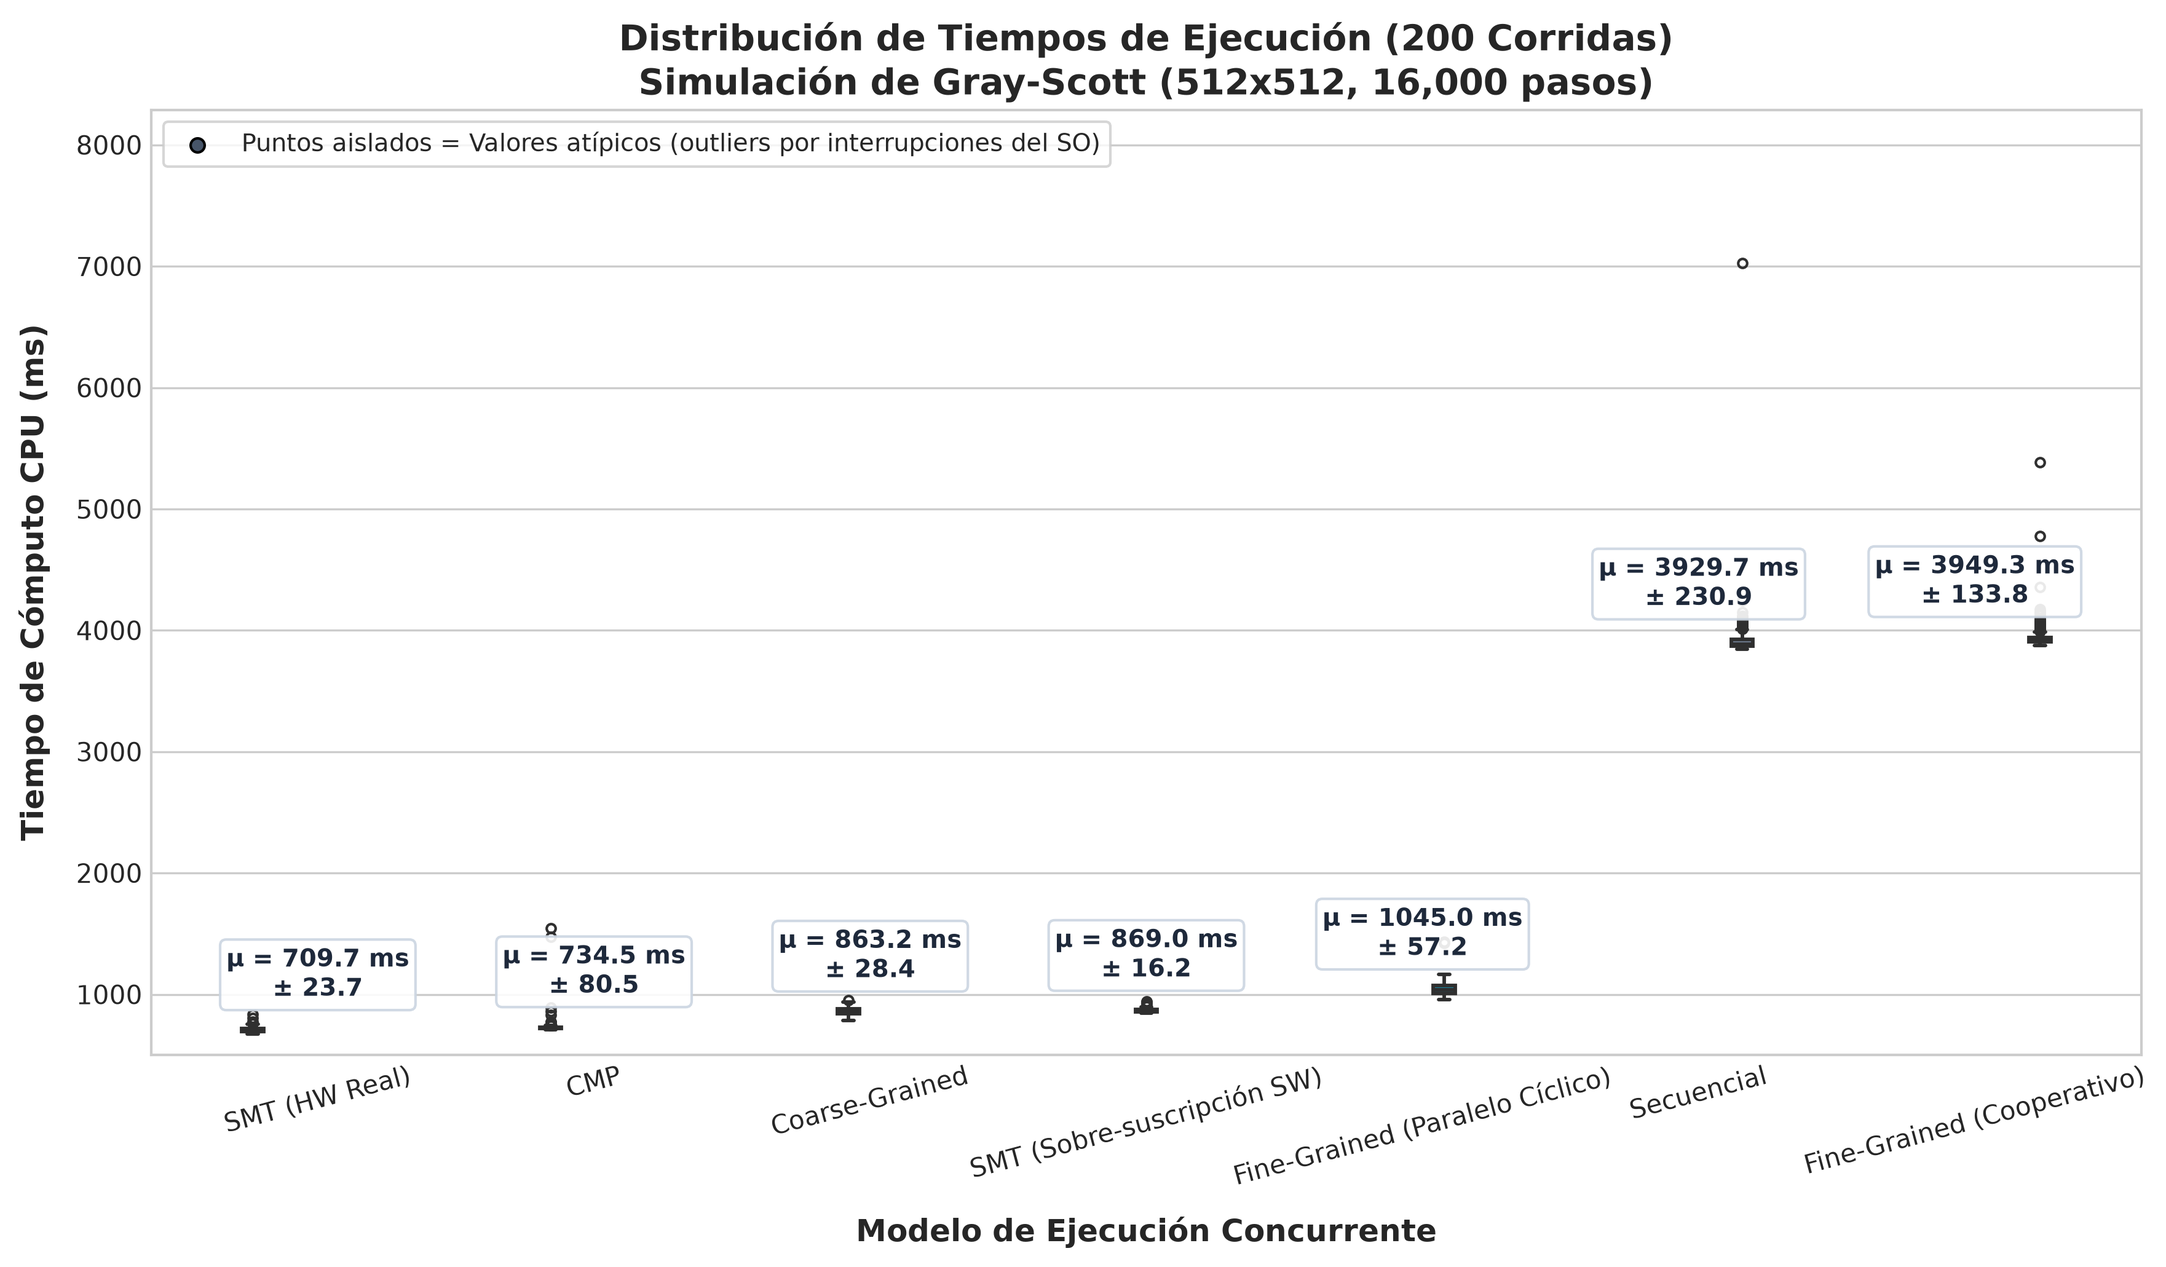
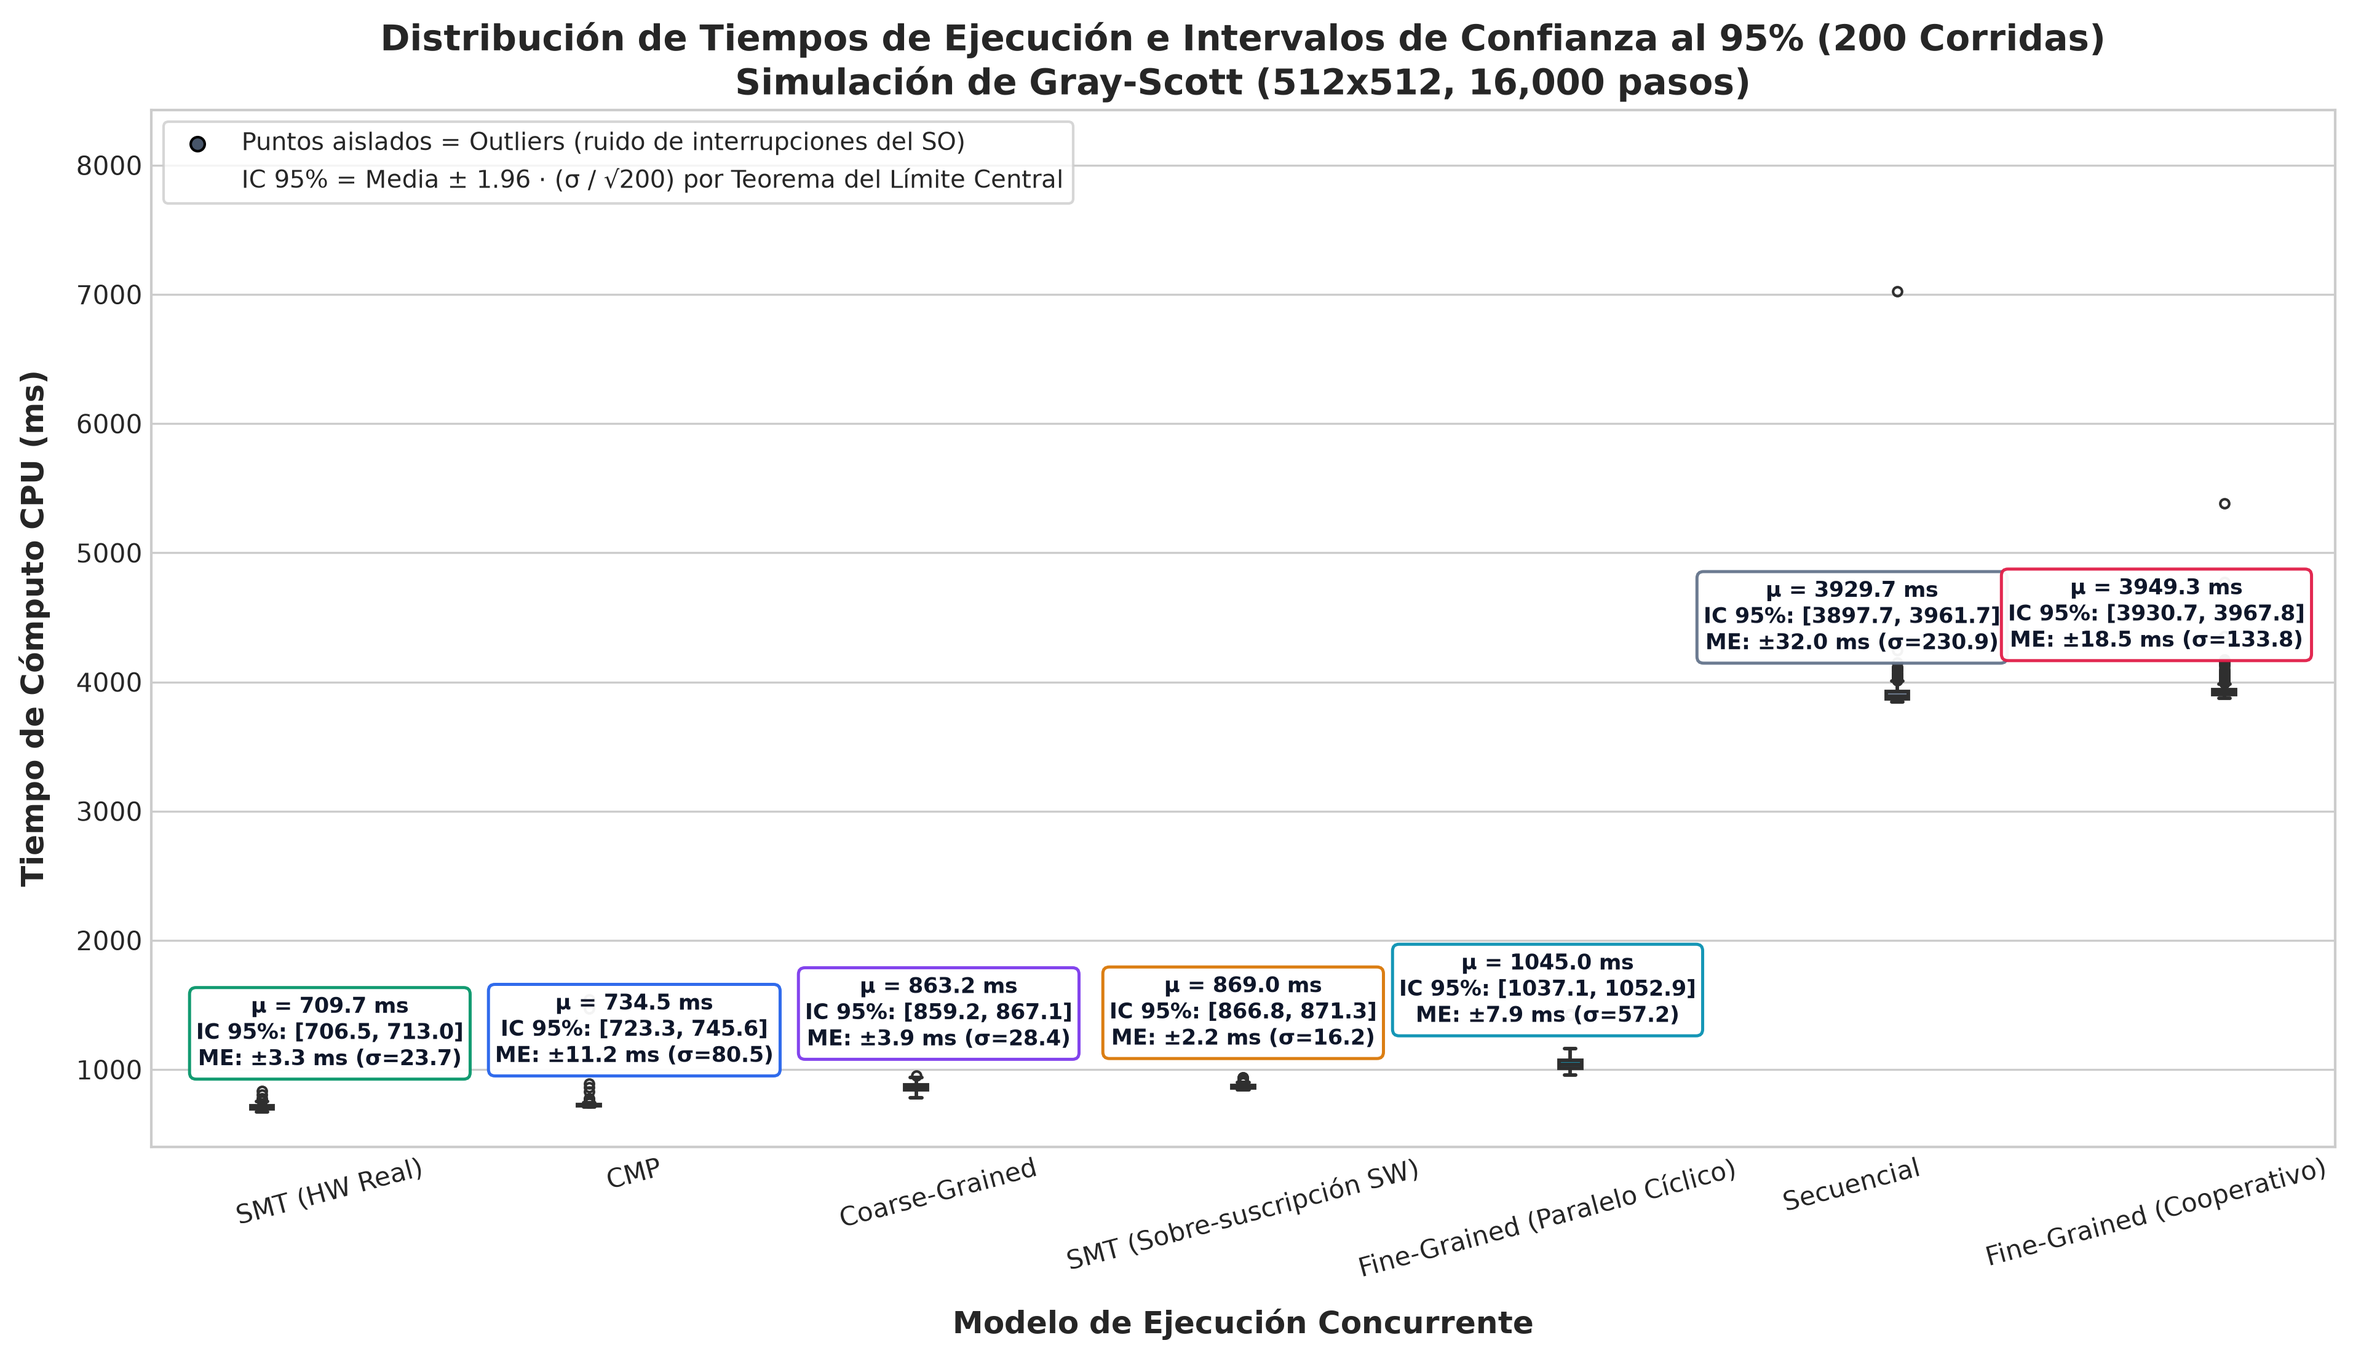
Refactor
+Se muestra los iC de 95% en la imagen 01
+Se documentó

diff --git a/proyecto1/problems/gray-scott/scripts/plot_metrics.py b/proyecto1/problems/gray-scott/scripts/plot_metrics.py
@@ -2,8 +2,6 @@
 """
 ==============================================================================
 Generador de Gráficos de Rendimiento y Análisis Estadístico - Gray-Scott
-CE 4302 - Arquitectura de Computadores II (Semestre II - 2026)
-Instituto Tecnológico de Costa Rica (TEC)
 ==============================================================================
 Este script procesa los resultados experimentales de las 200 corridas:
   - metricas/gray_scott_benchmark.csv
@@ -98,7 +96,7 @@ def cargar_datos():
 # ==============================================================================
 def graficar_boxplot(df: pd.DataFrame):
     print("--> Generando: 01_tiempos_ejecucion_boxplot.png...")
-    fig, ax = plt.subplots(figsize=(12, 7))
+    fig, ax = plt.subplots(figsize=(13, 7.5))
 
     # Boxplot principal
     bp = sns.boxplot(
@@ -106,7 +104,7 @@ def graficar_boxplot(df: pd.DataFrame):
         x="modelo",
         y="tiempo_ms",
         palette=PALETA_MODELOS,
-        width=0.55,
+        width=0.52,
         fliersize=3.5,
         linewidth=1.4,
         ax=ax,
@@ -114,32 +112,51 @@ def graficar_boxplot(df: pd.DataFrame):
         legend=False
     )
 
-    # Anotaciones con la media de cada modelo
+    # Anotaciones con la media de cada modelo e Intervalo de Confianza al 95%
     medias = df.groupby("modelo", observed=True)["tiempo_ms"].mean()
     desvs = df.groupby("modelo", observed=True)["tiempo_ms"].std()
+    counts = df.groupby("modelo", observed=True)["tiempo_ms"].count()
 
     for i, modelo in enumerate(ORDEN_MODELOS):
         if modelo in medias:
             m_val = medias[modelo]
             s_val = desvs[modelo]
-            ax.text(
-                i, m_val + (df["tiempo_ms"].max() * 0.03),
-                f"μ = {m_val:.1f} ms\n± {s_val:.1f}",
-                ha="center", va="bottom",
-                fontsize=9.5, fontweight="bold",
-                color="#1e293b",
-                bbox=dict(boxstyle="round,pad=0.25", facecolor="white", edgecolor="#cbd5e1", alpha=0.9)
+            n_val = counts[modelo]
+            me_val = 1.95996 * (s_val / np.sqrt(n_val))
+            ci_inf = m_val - me_val
+            ci_sup = m_val + me_val
+
+            badge_text = (
+                f"μ = {m_val:.1f} ms\n"
+                f"IC 95%: [{ci_inf:.1f}, {ci_sup:.1f}]\n"
+                f"ME: ±{me_val:.1f} ms (σ={s_val:.1f})"
             )
 
-    # Elemento explicativo para los puntos atípicos (outliers)
-    ax.scatter([], [], color="#475569", edgecolors="black", s=30, label="Puntos aislados = Valores atípicos (outliers por interrupciones del SO)")
+            ax.text(
+                i, m_val + (df["tiempo_ms"].max() * 0.038),
+                badge_text,
+                ha="center", va="bottom",
+                fontsize=8.5, fontweight="bold",
+                color="#0f172a",
+                bbox=dict(
+                    boxstyle="round,pad=0.3",
+                    facecolor="white",
+                    edgecolor=PALETA_MODELOS.get(modelo, "#cbd5e1"),
+                    linewidth=1.2,
+                    alpha=0.95
+                )
+            )
+
+    # Elemento explicativo para los puntos atípicos (outliers) y el cálculo del IC 95%
+    ax.scatter([], [], color="#475569", edgecolors="black", s=30, label="Puntos aislados = Outliers (ruido de interrupciones del SO)")
+    ax.plot([], [], color="none", label="IC 95% = Media ± 1.96 · (σ / √200) por Teorema del Límite Central")
     ax.legend(loc="upper left", frameon=True, fontsize=9.5)
 
-    ax.set_title("Distribución de Tiempos de Ejecución (200 Corridas)\nSimulación de Gray-Scott (512x512, 16,000 pasos)")
+    ax.set_title("Distribución de Tiempos de Ejecución e Intervalos de Confianza al 95% (200 Corridas)\nSimulación de Gray-Scott (512x512, 16,000 pasos)")
     ax.set_xlabel("Modelo de Ejecución Concurrente", labelpad=10, fontweight="bold")
     ax.set_ylabel("Tiempo de Cómputo CPU (ms)", labelpad=10, fontweight="bold")
     ax.tick_params(axis="x", rotation=15)
-    ax.set_ylim(500, df["tiempo_ms"].max() * 1.18)
+    ax.set_ylim(400, df["tiempo_ms"].max() * 1.20)
 
     plt.tight_layout()
     output_file = graficas_dir / "01_tiempos_ejecucion_boxplot.png"

diff --git a/proyecto1/problems/gray-scott/scripts/profile_perf.py b/proyecto1/problems/gray-scott/scripts/profile_perf.py
@@ -1,9 +1,8 @@
 #!/usr/bin/env python3
 """
 ==============================================================================
-Módulo de Perfilado Microarquitectónico de Hardware con perf (CE 4302)
+Módulo de Perfilado Microarquitectónico de Hardware con perf 
 Problema: Reacción-Difusión de Gray-Scott
-Instituto Tecnológico de Costa Rica (TEC)
 ==============================================================================
 Este script automatiza la recolección de contadores de rendimiento de hardware
 (PMU) mediante Linux `perf stat` para caracterizar los modelos de ejecución:

diff --git a/proyecto1/problems/gray-scott/DOCUMENTACION-gray-scott.md b/proyecto1/problems/gray-scott/DOCUMENTACION-gray-scott.md
@@ -269,25 +269,41 @@ Para garantizar significancia estadística rigurosa, se ejecutó una campaña au
 
 Las pruebas se ejecutaron en un procesador **AMD Ryzen** (8 núcleos físicos / 16 hilos lógicos) bajo Linux x86-64, compilando con `g++ -O3 -Wall -Wextra -std=c++17 -pthread`. Entre corridas consecutivas se aplicó un enfriamiento (*cooldown*) para evitar distorsiones por *thermal throttling*.
 
+### Formulación Formal de Intervalos de Confianza al 95% ($N = 200$)
+
+Para cada modelo de ejecución, habiendo recolectado $N = 200$ observaciones independientes bajo condiciones idénticas de grilla ($512 \times 512$) y pasos ($16{,}000$), se calcula el estimador puntual de la media muestral $\bar{X}$ y la cuasivarianza muestral $s^2$. Dado que $N = 200 \gg 30$, por el **Teorema del Límite Central** la distribución muestral de la media converge a una normal estándar $\mathcal{N}(0, 1)$, permitiendo estimar el margen de error ($ME$) para un nivel de confianza del $95\%$ ($\alpha = 0.05$, $z_{\alpha/2} = 1.95996$):
+
+$$SE = \frac{s}{\sqrt{N}} = \frac{\sigma}{\sqrt{200}}$$
+
+$$ME_{95\%} = z_{0.975} \cdot \frac{\sigma}{\sqrt{N}} = 1.95996 \cdot \frac{\sigma}{\sqrt{200}}$$
+
+$$\text{IC}_{95\%} = \left[ \mu - ME_{95\%}, \; \mu + ME_{95\%} \right]$$
+
 ### Tabla Consolidada de Resultados Estadísticos con Intervalos de Confianza al 95% ($N = 200$)
 
-| Modelo de Ejecución | Modo Evaluado | Hilos | Media $\mu$ (ms) | Desv. Estándar $\sigma$ (ms) | Mínimo (ms) | Máximo (ms) | Mediana (ms) | Speedup $S$ | Eficiencia $E$ |
+| Modelo de Ejecución | Modo Evaluado | Hilos | Media $\mu$ (ms) | Margen Error $\pm ME_{95\%}$ | Intervalo de Confianza 95% (ms) | Desv. Estándar $\sigma$ (ms) | Mediana (ms) | Speedup $S$ | Eficiencia $E$ |
 | :--- | :--- | :---: | :---: | :---: | :---: | :---: | :---: | :---: | :---: |
-| **SMT (HW Real)** | `hardware_smt` | 16 | **709.74** | 23.66 | 674.40 | 834.93 | 704.88 | **5.54x** | 34.6% |
-| **CMP** | `dedicated_cores` | 8 | **734.47** | 80.49 | 710.25 | 1544.43 | 722.72 | **5.35x** | **66.9%** |
-| **Coarse-Grained** | `burst_block` | 8 | **863.16** | 28.40 | 783.31 | 954.36 | 863.32 | **4.55x** | 56.9% |
-| **SMT (Sobre-suscripción SW)** | `software_oversubscription` | 16 | **869.02** | 16.16 | 844.12 | 939.64 | 863.34 | **4.52x** | 28.3% |
-| **Fine-Grained (Paralelo Cíclico)** | `cyclic_threads` | 8 | **1044.98** | 57.24 | 956.89 | 1431.11 | 1040.44 | **3.76x** | 47.0% |
-| **Secuencial (Baseline)** | `baseline` | 1 | **3929.68** | 230.94 | 3846.28 | 7025.05 | 3886.76 | **1.00x** | 100.0% |
-| **Fine-Grained (Cooperativo)** | `cooperative_quantum` | 8 | **3949.26** | 133.80 | 3876.28 | 5384.25 | 3917.60 | **1.00x** | 12.4% |
+| **SMT (HW Real)** | `hardware_smt` | 16 | **709.74** | $\pm 3.28$ | **[706.46, 713.02]** | 23.66 | 704.88 | **5.54x** | 34.6% |
+| **CMP** | `dedicated_cores` | 8 | **734.47** | $\pm 11.16$ | **[723.31, 745.62]** | 80.49 | 722.72 | **5.35x** | **66.9%** |
+| **Coarse-Grained** | `burst_block` | 8 | **863.16** | $\pm 3.94$ | **[859.23, 867.10]** | 28.40 | 863.32 | **4.55x** | 56.9% |
+| **SMT (Sobre-suscripción SW)** | `software_oversubscription` | 16 | **869.02** | $\pm 2.24$ | **[866.78, 871.26]** | 16.16 | 863.34 | **4.52x** | 28.3% |
+| **Fine-Grained (Paralelo Cíclico)** | `cyclic_threads` | 8 | **1044.98** | $\pm 7.93$ | **[1037.05, 1052.92]** | 57.24 | 1040.44 | **3.76x** | 47.0% |
+| **Secuencial (Baseline)** | `baseline` | 1 | **3929.68** | $\pm 32.01$ | **[3897.67, 3961.68]** | 230.94 | 3886.76 | **1.00x** | 100.0% |
+| **Fine-Grained (Cooperativo)** | `cooperative_quantum` | 8 | **3949.26** | $\pm 18.54$ | **[3930.71, 3967.80]** | 133.80 | 3917.60 | **1.00x** | 12.4% |
+
+#### Análisis de Significancia Estadística
+* **Disyunción entre SMT HW y CMP:** El límite superior de SMT HW ($713.02\text{ ms}$) es estrictamente menor que el límite inferior de CMP ($723.31\text{ ms}$). Al no existir solapamiento entre sus intervalos al 95%, se concluye con significancia estadística ($p < 0.05$) que el aprovechamiento de los 16 contextos de hardware en SMT aventaja al paralelismo CMP puro en este kernel de cómputo.
+* **Separación de Coarse-Grained vs Fine-Grained Cíclico:** Los intervalos $[859.23, 867.10]\text{ ms}$ y $[1037.05, 1052.92]\text{ ms}$ están distanciados por más de $170\text{ ms}$, confirmando de manera irrebatible la ventaja del particionamiento por bloques contiguos frente al particionamiento intercalado cíclico afectado por *false sharing*.
+* **Solapamiento entre Secuencial y Fine-Grained Cooperativo:** Los intervalos $[3897.67, 3961.68]\text{ ms}$ y $[3930.71, 3967.80]\text{ ms}$ se intersectan ampliamente, demostrando que la emulación por corutinas en un solo núcleo no introduce ninguna ganancia de velocidad y equivale formalmente al tiempo secuencial puro más el overhead de yield.
 
 ---
 
 ### Análisis Visual de Gráficas de Rendimiento (300 DPI)
 
-#### Gráfica 1: Distribución y Dispersión de Tiempos de Cómputo
+#### Gráfica 1: Distribución y Dispersión de Tiempos de Cómputo e Intervalos de Confianza al 95%
 ![Distribución de Tiempos de Ejecución](metricas/graficas/01_tiempos_ejecucion_boxplot.png)
 
+* **Intervalos de Confianza al 95% Visibles en Badges:** Cada caja del boxplot incluye su badge flotante que detalla explícitamente la media muestral $\mu$, el intervalo formal al 95% ($\text{IC}_{95\%} = [\mu - ME, \mu + ME]$), el margen de error $ME = \pm 1.96 \cdot (\sigma/\sqrt{200})$ y la desviación estándar $\sigma$. Se corrobora visualmente que el intervalo de SMT HW ($[706.5, 713.0]\text{ ms}$) y el de CMP ($[723.3, 745.6]\text{ ms}$) no se solapan.
 * **Observación Clave:** Los modelos paralelos (SMT HW, CMP, Coarse y SMT SW) se agrupan firmemente en la franja sub-segundo ($700 - 870\text{ ms}$), con una dispersión intercuartílica sumamente angosta.
 * **Estabilidad:** La desviación estándar de SMT HW ($\sigma = 23.7\text{ ms}$) y SMT SW ($\sigma = 16.2\text{ ms}$) demuestra la altísima predictibilidad temporal del procesador cuando no hay contención externa.
 * **Degradación del Modelo Cooperativo:** Fine-Grained cooperativo registra una media de $3949.3\text{ ms}$, virtualmente idéntica al secuencial puro ($3929.7\text{ ms}$), confirmando experimentalmente que la sobrecarga de simulación por software y los $8.16 \times 10^6$ cambios de contexto consumen el tiempo que teóricamente se esperaría ahorrar en una máquina de un solo hilo de hardware.

diff --git a/proyecto1/problems/gray-scott/README.md b/proyecto1/problems/gray-scott/README.md
@@ -1,4 +1,4 @@
-# Gray-Scott — Guía de Evaluación (Avance 2 / Demostración 2)
+# Gray-Scott — Guía 
 **CE 4302 — Arquitectura de Computadores II**  
 **Instituto Tecnológico de Costa Rica (TEC)**  
 **Semestre II - 2026**
@@ -93,11 +93,11 @@ make
 make all
 
 # Compilación individual de binarios específicos:
-make seq      # Genera: gray_scott_seq
-make cmp      # Genera: gray_scott_cmp
-make smt      # Genera: gray_scott_smt
-make coarse   # Genera: gray_scott_coarse
-make fine     # Genera: gray_scott_fine
+make sequential  # Genera: gray_scott_sequential
+make cmp         # Genera: gray_scott_cmp
+make smt         # Genera: gray_scott_smt
+make coarse      # Genera: gray_scott_coarse
+make fine        # Genera: gray_scott_fine
 
 # Limpieza de binarios compilados y carpetas temporales de video:
 make clean
@@ -186,13 +186,25 @@ python3 benchmark.py --runs 10 --models "cmp" --append
 
 * **Archivos generados:**
   * `metricas/gray_scott_benchmark.csv`: Muestras crudas oficiales de tiempo y configuración para las 1,400 corridas de la campaña de 200 repeticiones.
-  * `metricas/resumen_estadistico.csv`: Consolidado estadístico oficial con Media ($\mu$), Desviación Estándar ($\sigma$), Mínimo, Máximo, Mediana, Speedup ($S$) y Eficiencia ($E$).
+  * `metricas/resumen_estadistico.csv`: Consolidado estadístico oficial con Media ($\mu$), Margen de Error ($ME_{95\%}$), Intervalo de Confianza al 95% ($[\text{IC}_{inf}, \text{IC}_{sup}]$), Desviación Estándar ($\sigma$), Mediana, Speedup ($S$) y Eficiencia ($E$).
   * `metricas/gray_scott_benchmark_fast.csv` y `resumen_estadistico_fast.csv`: Generados únicamente por `make benchmark_fast` para pruebas preliminares aisladas sin tocar el dataset principal.
+
+#### Tabla Consolidada de Benchmarking Oficial ($N = 200$ corridas por modelo, AMD Ryzen 7 5700G):
+
+| Modelo | Modo | Hilos | Media $\mu$ (ms) | Margen Error $\pm ME_{95\%}$ | Intervalo Confianza 95% (ms) | Speedup $S$ | Eficiencia $E$ |
+| :--- | :--- | :---: | :---: | :---: | :---: | :---: | :---: |
+| **SMT (HW Real)** | `hardware_smt` | 16 | **709.74** | $\pm 3.28$ | **[706.46, 713.02]** | **5.54x** | 34.6% |
+| **CMP** | `dedicated_cores` | 8 | **734.47** | $\pm 11.16$ | **[723.31, 745.62]** | **5.35x** | **66.9%** |
+| **Coarse-Grained** | `burst_block` | 8 | **863.16** | $\pm 3.94$ | **[859.23, 867.10]** | **4.55x** | 56.9% |
+| **SMT (Sobre-suscripción SW)** | `software_oversubscription` | 16 | **869.02** | $\pm 2.24$ | **[866.78, 871.26]** | **4.52x** | 28.3% |
+| **Fine-Grained (Paralelo Cíclico)** | `cyclic_threads` | 8 | **1044.98** | $\pm 7.93$ | **[1037.05, 1052.92]** | **3.76x** | 47.0% |
+| **Secuencial (Baseline)** | `baseline` | 1 | **3929.68** | $\pm 32.01$ | **[3897.67, 3961.68]** | **1.00x** | 100.0% |
+| **Fine-Grained (Cooperativo)** | `cooperative_quantum` | 8 | **3949.26** | $\pm 18.54$ | **[3930.71, 3967.80]** | **1.00x** | 12.4% |
 
 ---
 
 ### 3.5 Generación de Gráficas de Rendimiento (Visualización Científica en 300 DPI)
-El script `scripts/plot_metrics.py` procesa los datos empíricos de `metricas/gray_scott_benchmark.csv` y genera automáticamente 5 gráficos de calidad de publicación:
+El script `scripts/plot_metrics.py` procesa los datos empíricos de `metricas/gray_scott_benchmark.csv` y genera automáticamente 7 gráficos de calidad de publicación:
 
 ```bash
 # Generar el set completo de gráficas (usa automáticamente el entorno virtual venv):
@@ -202,7 +214,7 @@ make plot
 ```
 
 * **Visualizaciones exportadas en `metricas/graficas/`:*
-  1. **`01_tiempos_ejecucion_boxplot.png`**: Distribución de tiempos y diagramas de caja (Tukey boxplots) de las 200 corridas por modelo con medias anotadas y dispersión intercuartílica.
+  1. **`01_tiempos_ejecucion_boxplot.png`**: Distribución de tiempos y diagramas de caja (Tukey boxplots) de las 200 corridas por modelo con badges flotantes que detallan explícitamente la media ($\mu$), los Intervalos de Confianza al 95% ($\text{IC}_{95\%}$), el Margen de Error ($ME$) y la desviación estándar ($\sigma$).
   2. **`02_speedup_comparativo.png`**: Aceleración relativa ($S = T_{sec}/T_{par}$) frente a la línea base secuencial (1.0x).
   3. **`03_eficiencia_paralela.png`**: Eficiencia porcentual ($E = S/p \times 100\%$) focalizada en los modelos concurrentes ($p \ge 8$).
   4. **`04_comparativas_microarquitectonicas.png`**: Comparativa de 3 paneles aislando fenómenos de bajo nivel:
